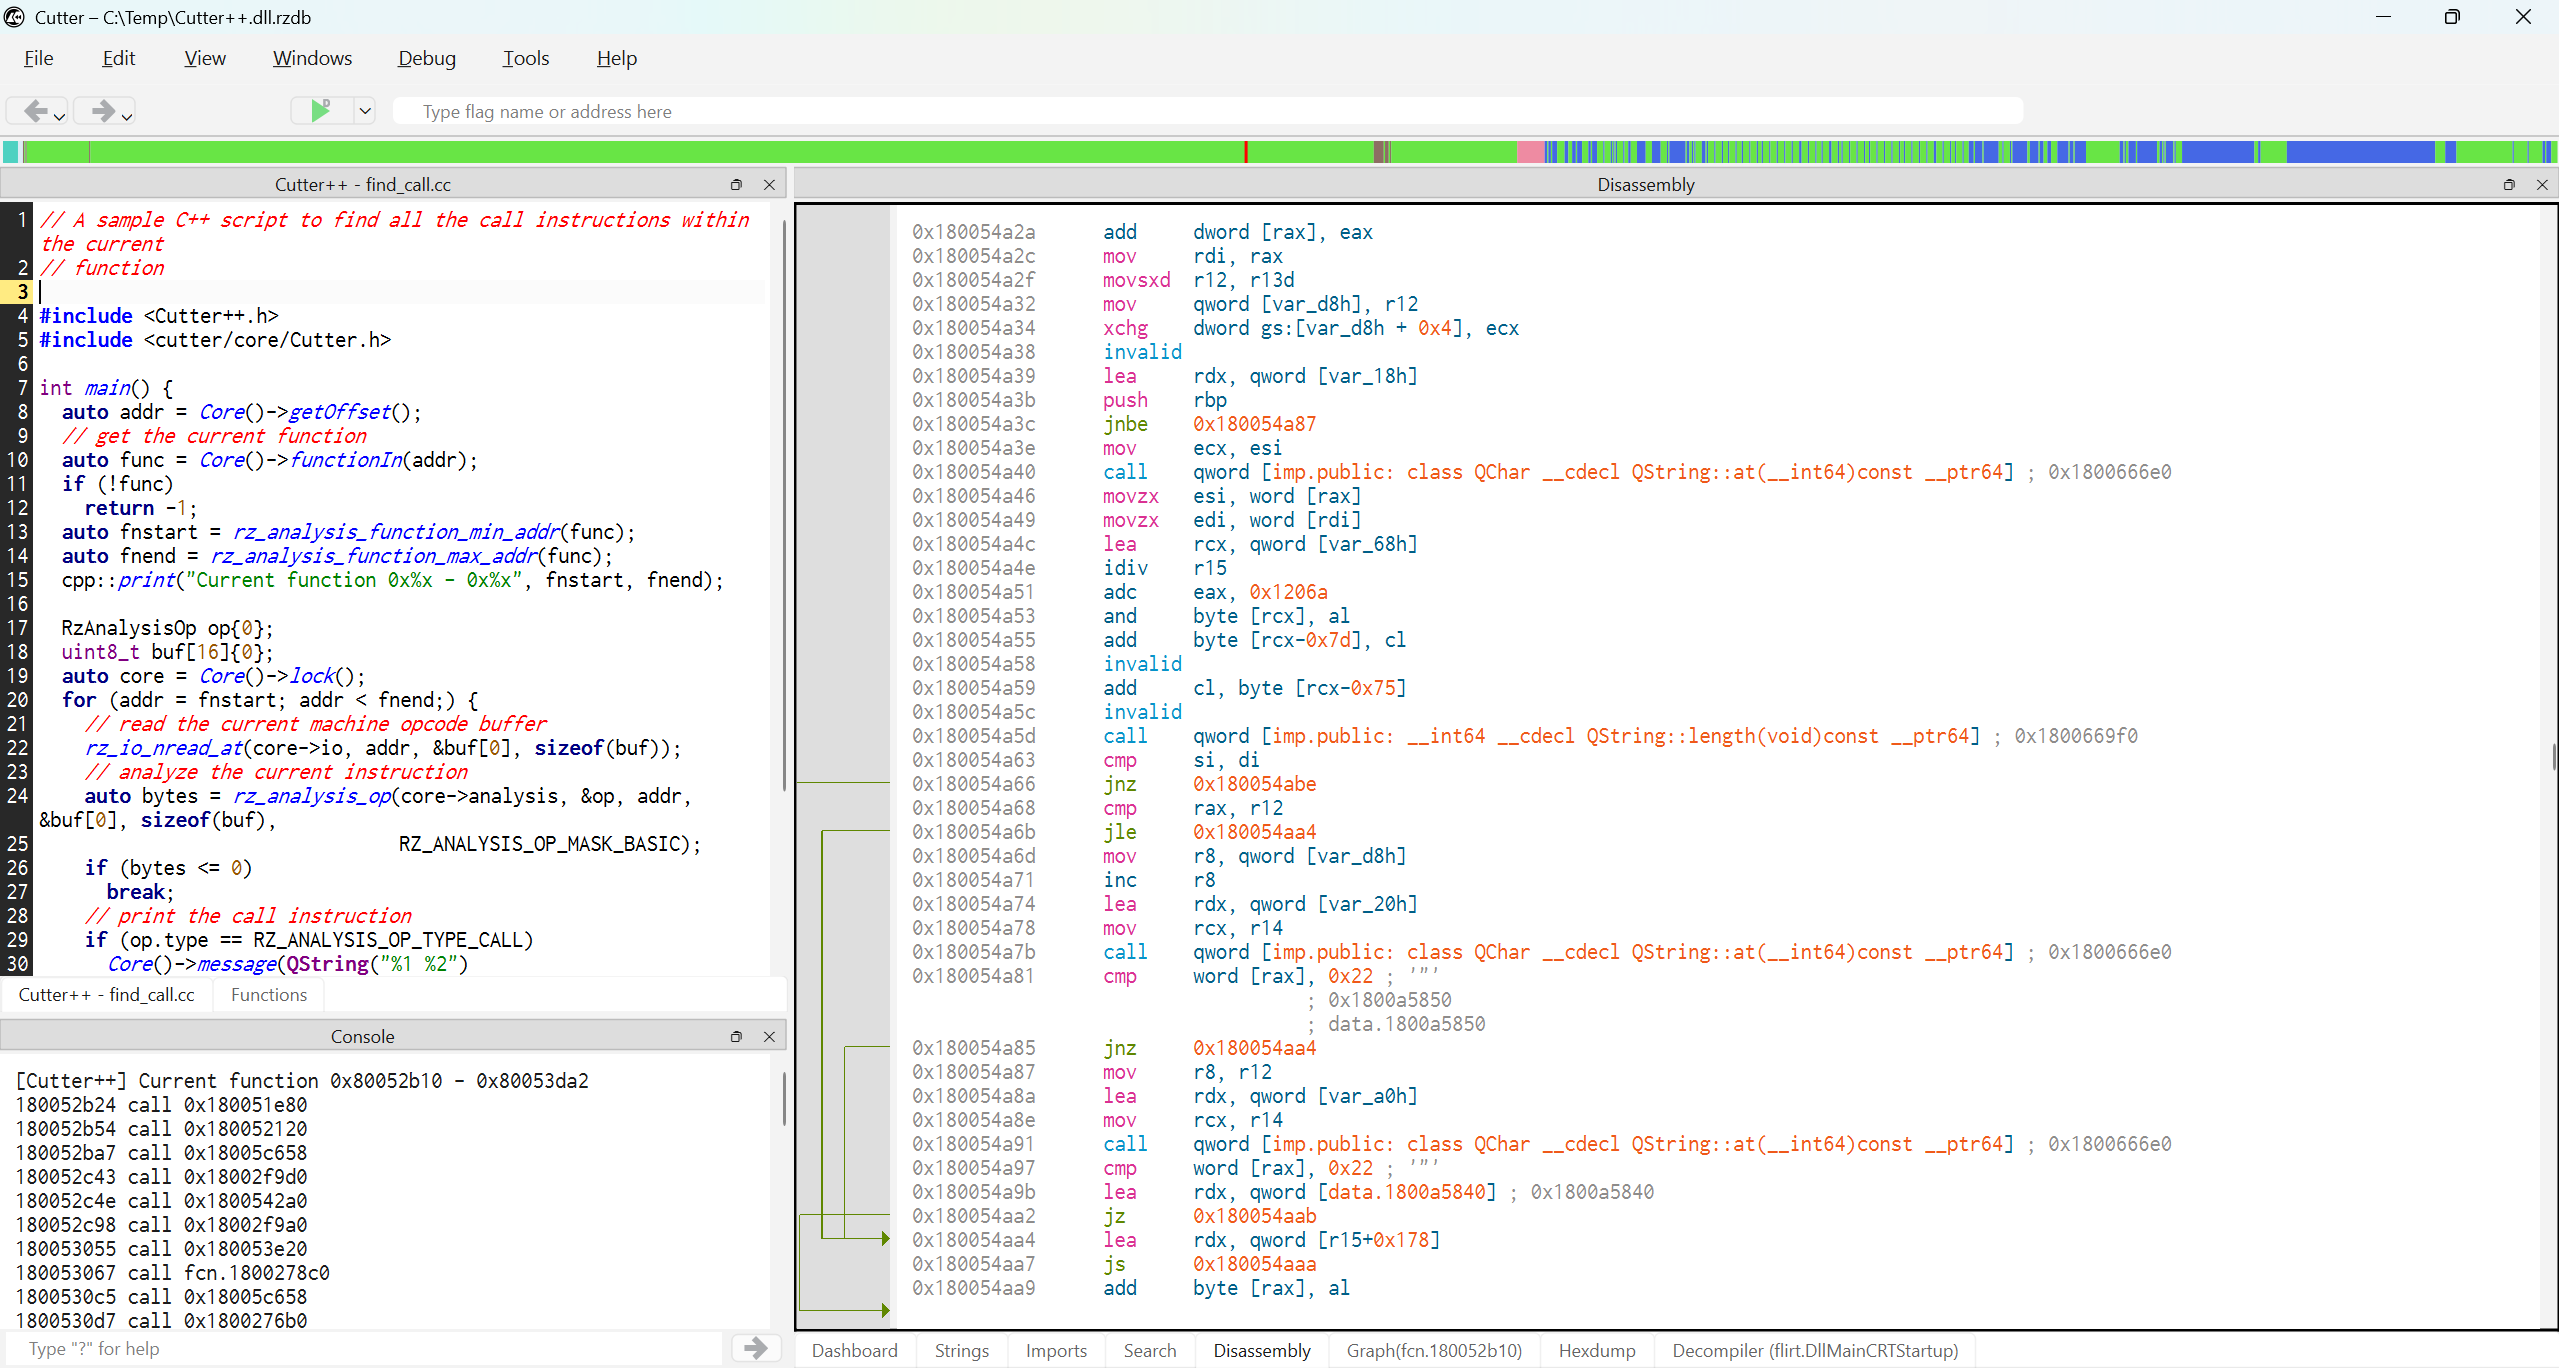
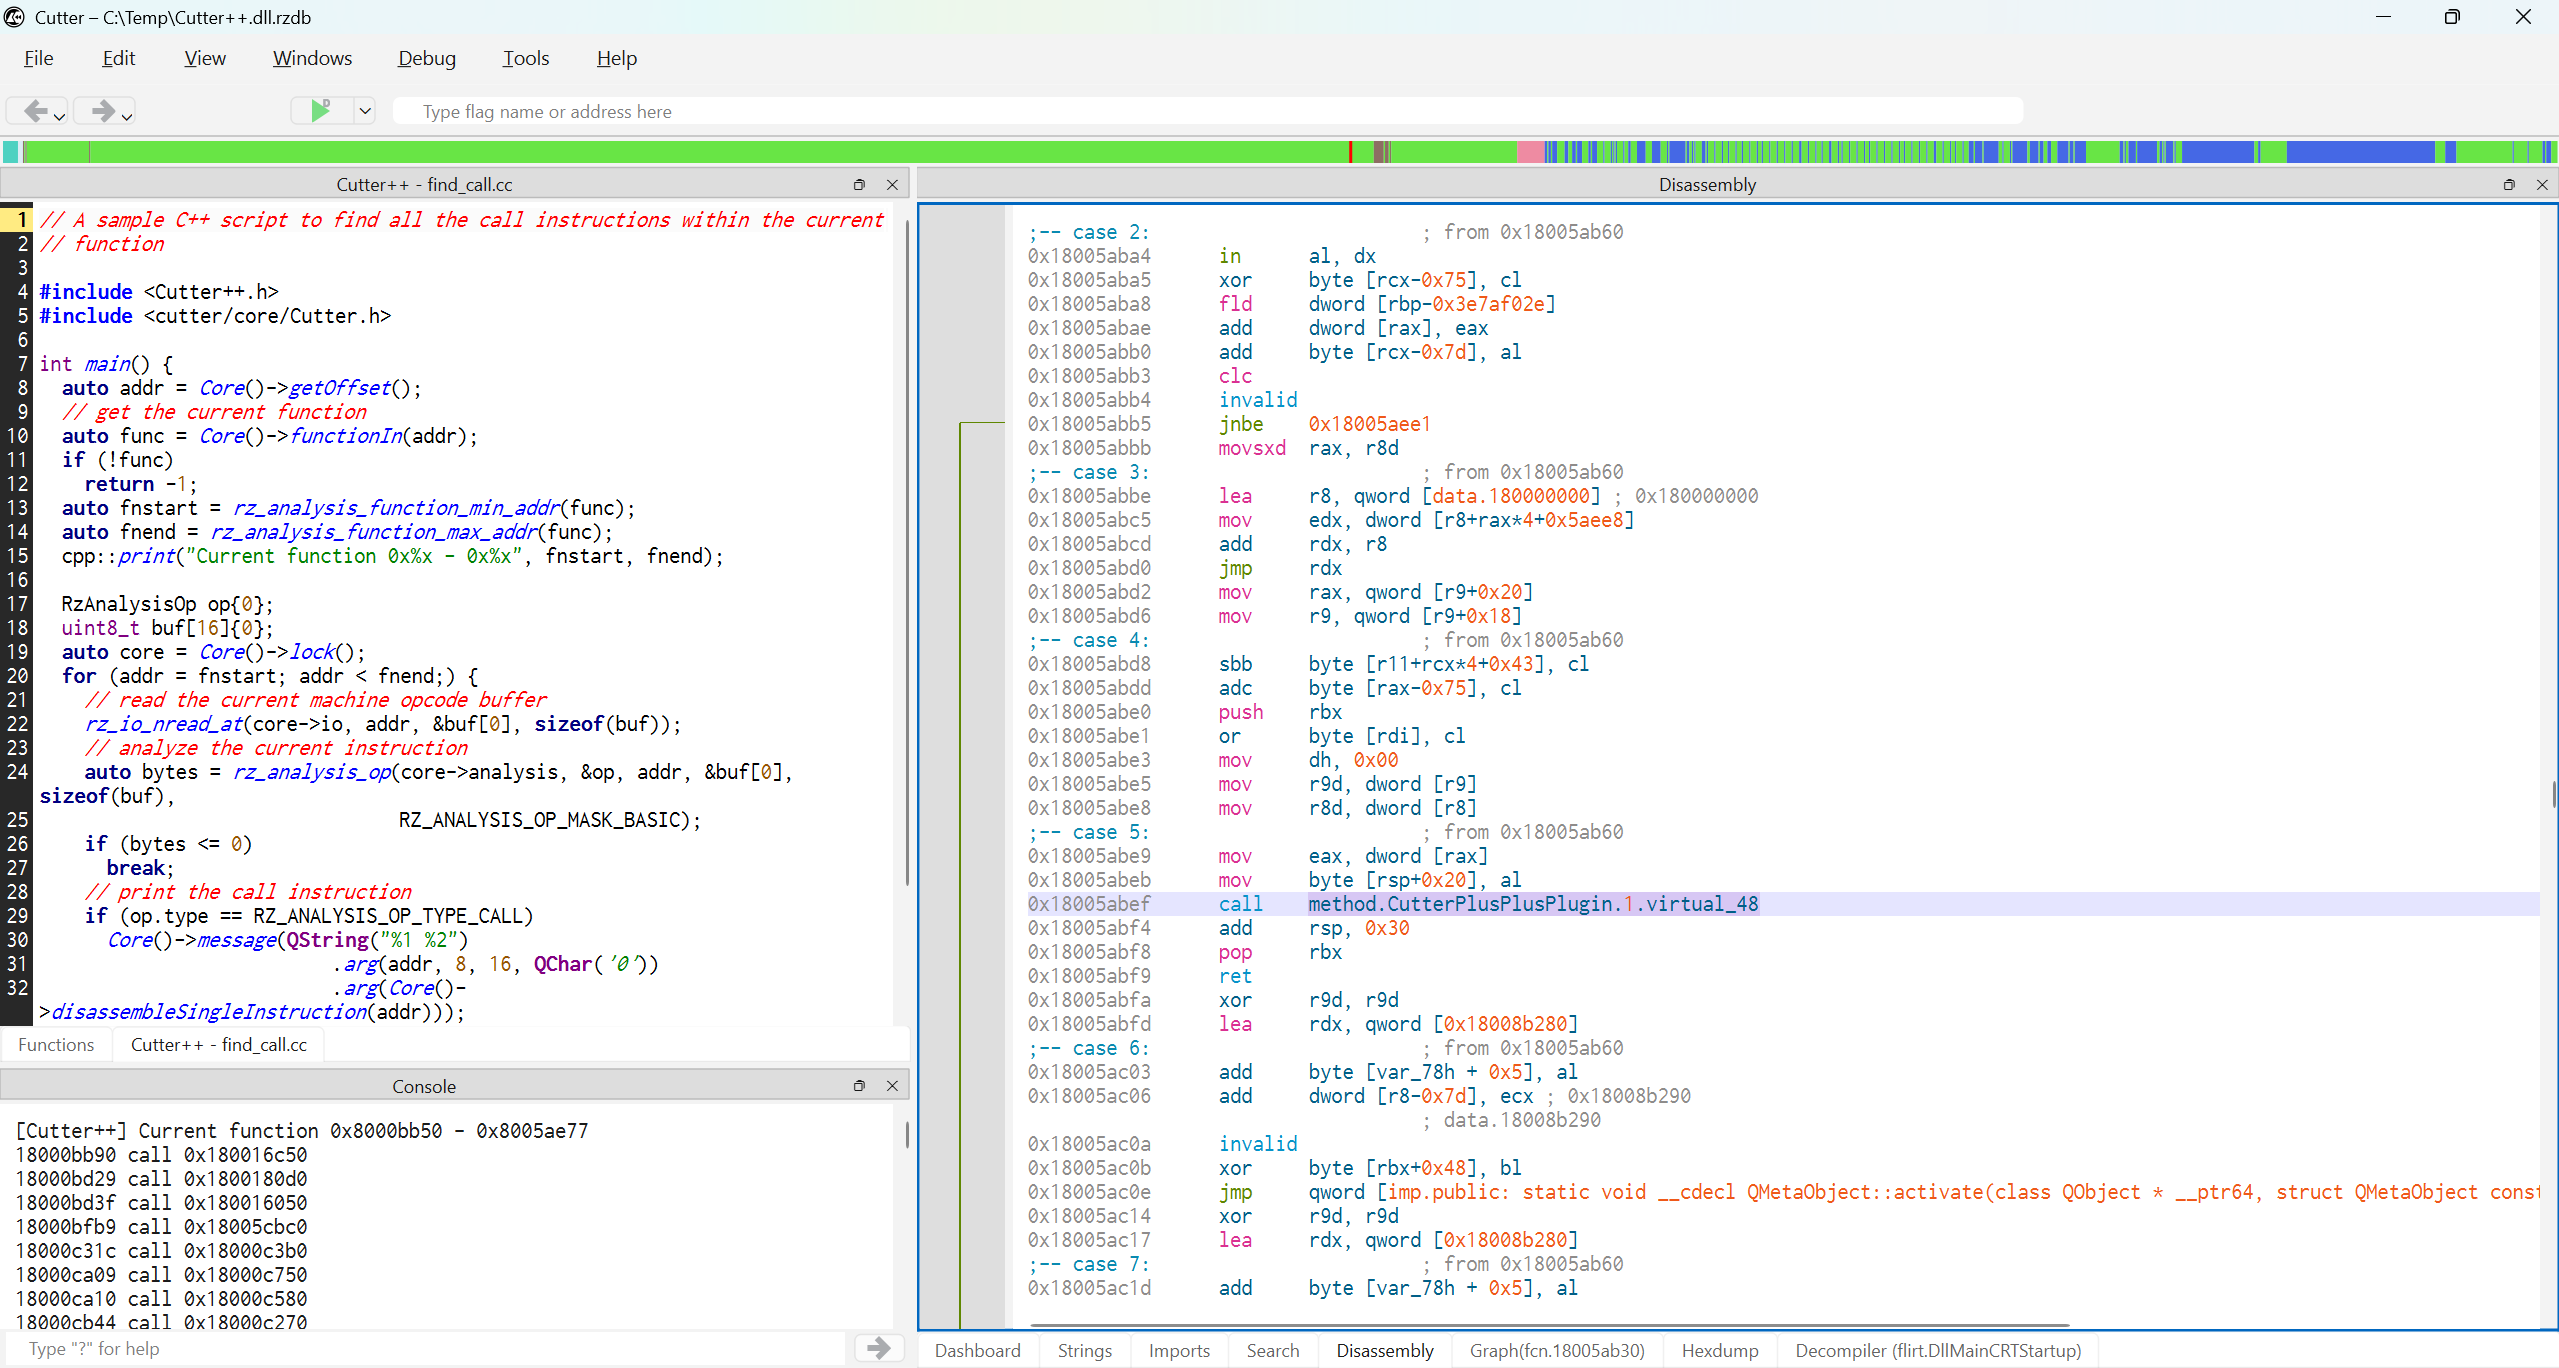
update screenshots.

diff --git a/README.md b/README.md
@@ -7,10 +7,10 @@ Powered by [ICPP](https://github.com/vpand/icpp), Cutter++ turns C++ into a scri
 
 ## Screenshot
 ### Windows
-![ScreenshotWin](https://raw.githubusercontent.com/GeekNeo/CutterPlusPlus/main/doc/ScreenShotWin.png)
+![ScreenshotWin](https://raw.githubusercontent.com/GeekNeo/CutterPlusPlus/main/doc/ScreenshotWin.png)
 
 ### macOS
-![Screenshot](https://raw.githubusercontent.com/GeekNeo/CutterPlusPlus/main/doc/ScreenShot.png)
+![ScreenshotMac](https://raw.githubusercontent.com/GeekNeo/CutterPlusPlus/main/doc/ScreenshotMac.png)
 
 ### Linux/Ubuntu
-![ScreenshotLinux](https://raw.githubusercontent.com/GeekNeo/CutterPlusPlus/main/doc/ScreenShotLinux.png)
+![ScreenshotLinux](https://raw.githubusercontent.com/GeekNeo/CutterPlusPlus/main/doc/ScreenshotLinux.png)